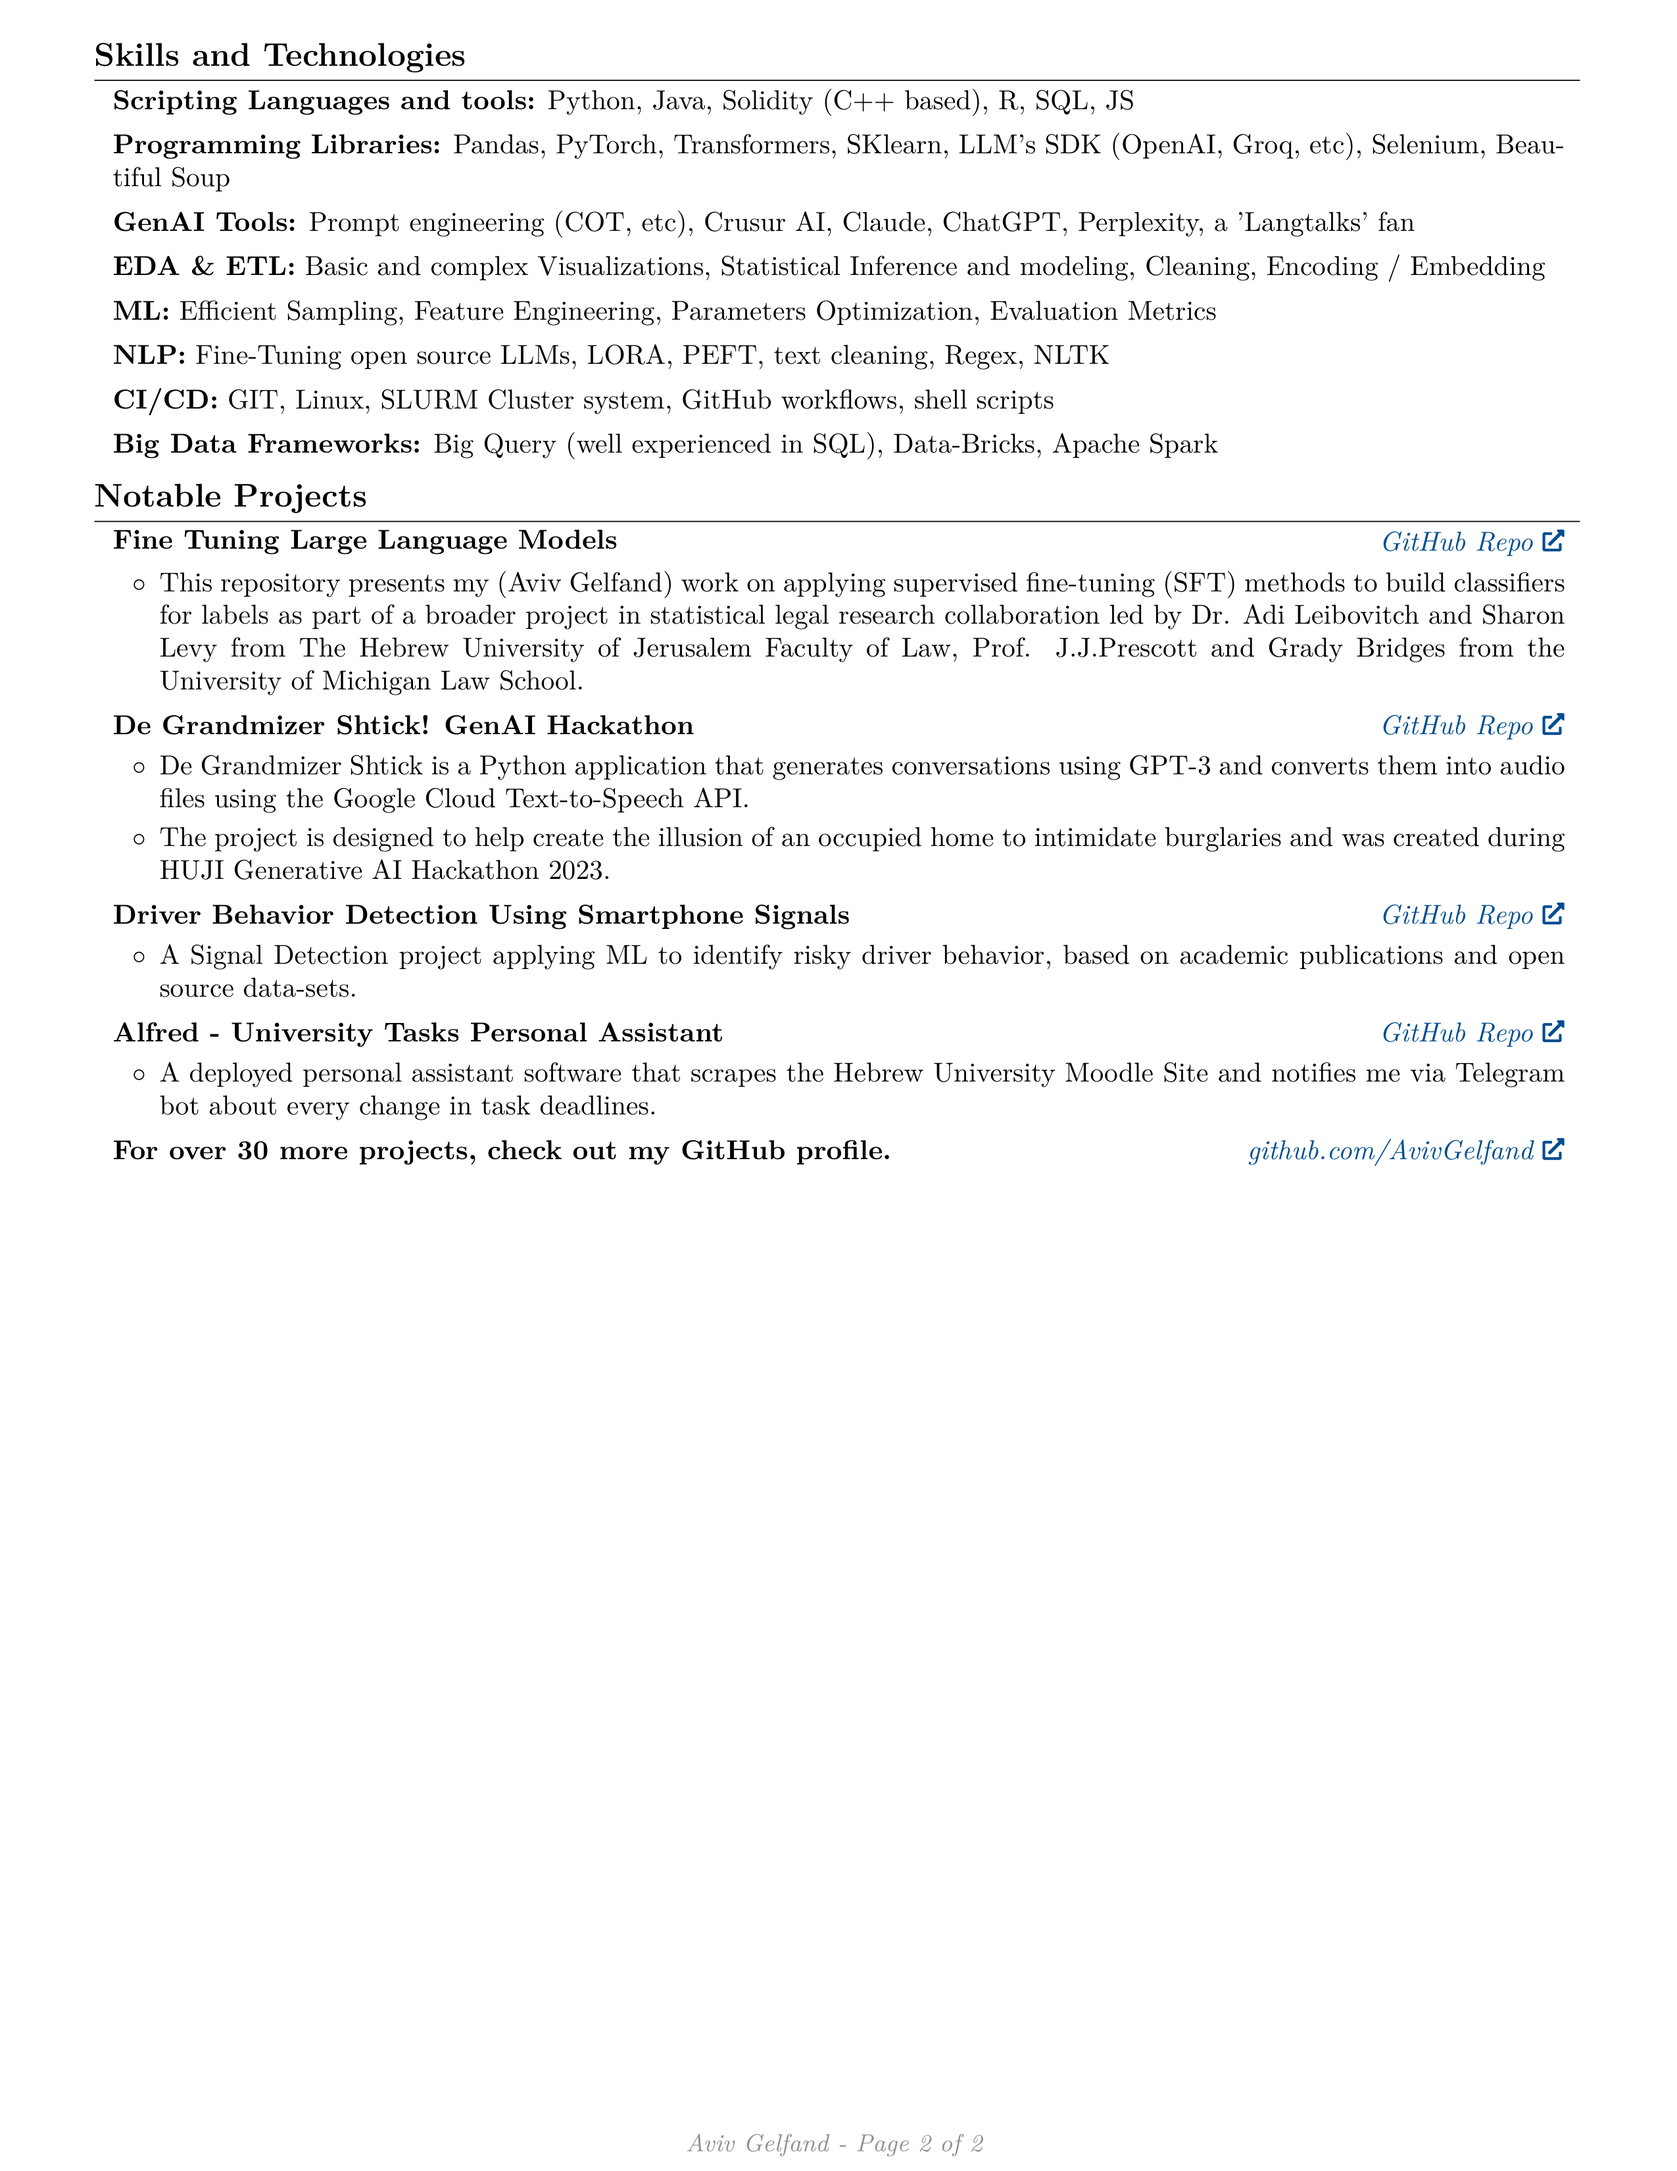
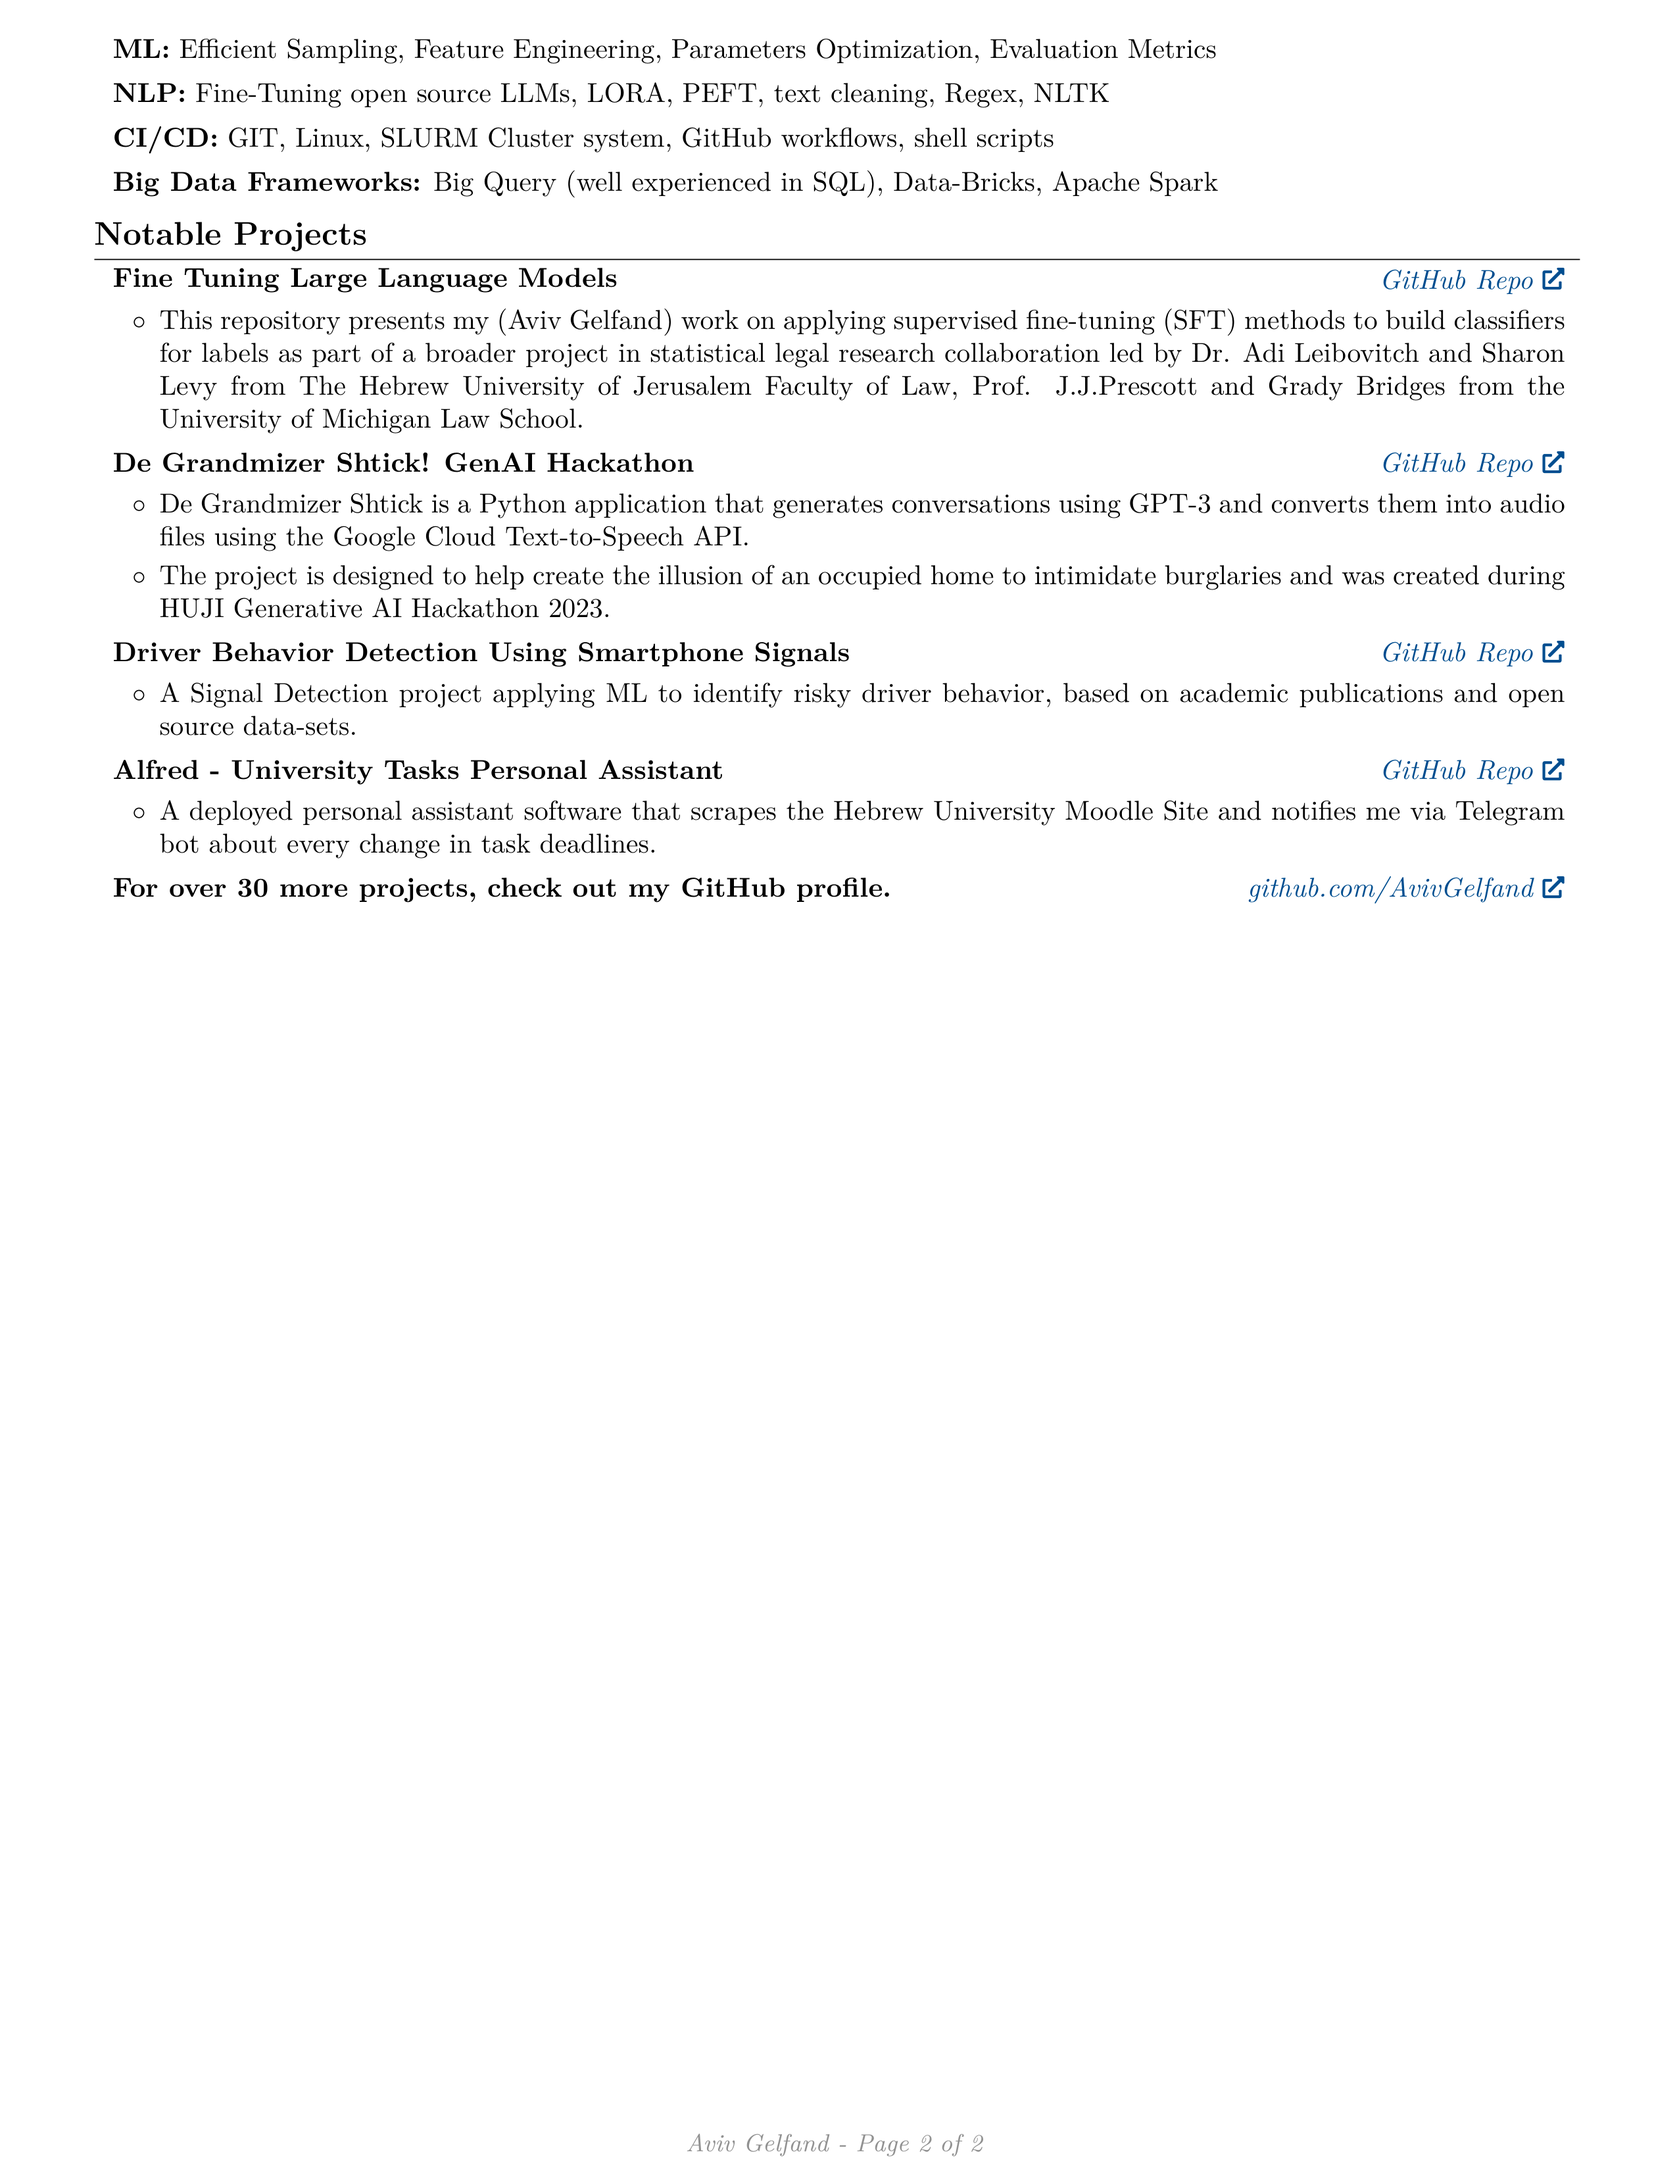
Render the latest CV

Changed region(s): [[0.062, 0.0, 0.9294, 0.5306], [0.8365, 0.4682, 0.9294, 0.4994]]

diff --git a/Aviv_Gelfand_CV.html b/Aviv_Gelfand_CV.html
@@ -87,7 +87,7 @@
         <h1>Skills and Technologies</h1>
         <ul>
         <li>Scripting Languages and tools: Python, Java, Solidity (C++ based), R, SQL, JS</li>
-        <li>Programming Libraries: Pandas, PyTorch, Transformers, SKlearn, LLM's SDK (OpenAI, Groq, etc), Selenium, Beautiful Soup</li>
+        <li>Programming Libraries: Pandas, PyTorch, Transformers, SKlearn, LLM's SDK (OpenAI, Groq, etc) and more</li>
         <li>GenAI Tools: Prompt engineering (COT, etc), Crusur AI, Claude, ChatGPT, Perplexity, a 'Langtalks' fan</li>
         <li>EDA &amp; ETL: Basic and complex Visualizations, Statistical Inference and modeling, Cleaning, Encoding / Embedding</li>
         <li>ML: Efficient Sampling, Feature Engineering, Parameters Optimization, Evaluation Metrics</li>

diff --git a/Aviv_Gelfand_CV.tex b/Aviv_Gelfand_CV.tex
@@ -329,7 +329,7 @@
         \vspace{0.15 cm}
 
         \begin{onecolentry}
-            \textbf{Programming Libraries:} Pandas, PyTorch, Transformers, SKlearn, LLM's SDK (OpenAI, Groq, etc), Selenium, Beautiful Soup
+            \textbf{Programming Libraries:} Pandas, PyTorch, Transformers, SKlearn, LLM's SDK (OpenAI, Groq, etc) and more
         \end{onecolentry}
 
         \vspace{0.15 cm}

diff --git a/README.md b/README.md
@@ -57,7 +57,7 @@
 # Skills and Technologies
 
 - Scripting Languages and tools: Python, Java, Solidity (C++ based), R, SQL, JS
-- Programming Libraries: Pandas, PyTorch, Transformers, SKlearn, LLM's SDK (OpenAI, Groq, etc), Selenium, Beautiful Soup
+- Programming Libraries: Pandas, PyTorch, Transformers, SKlearn, LLM's SDK (OpenAI, Groq, etc) and more
 - GenAI Tools: Prompt engineering (COT, etc), Crusur AI, Claude, ChatGPT, Perplexity, a 'Langtalks' fan
 - EDA & ETL: Basic and complex Visualizations, Statistical Inference and modeling, Cleaning, Encoding / Embedding
 - ML: Efficient Sampling, Feature Engineering, Parameters Optimization, Evaluation Metrics
